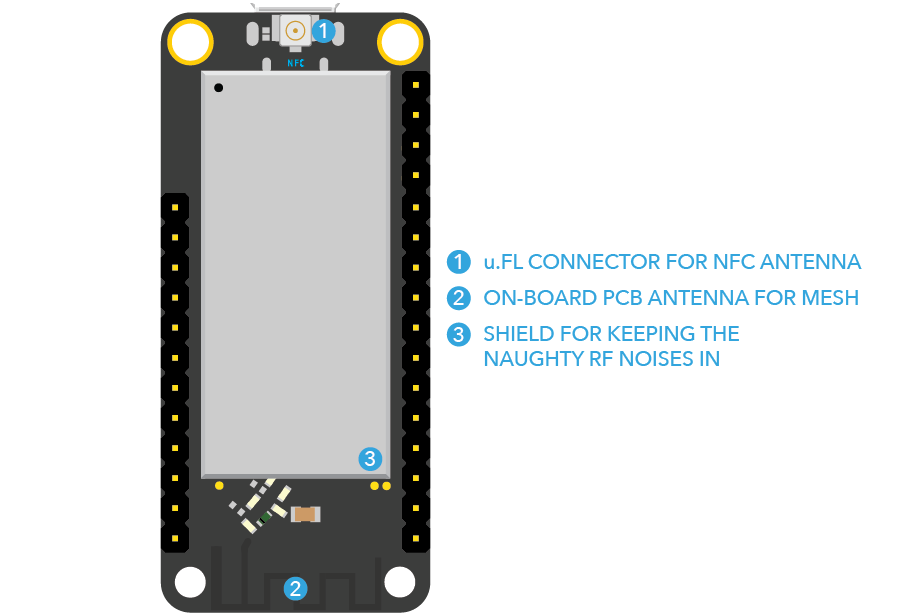
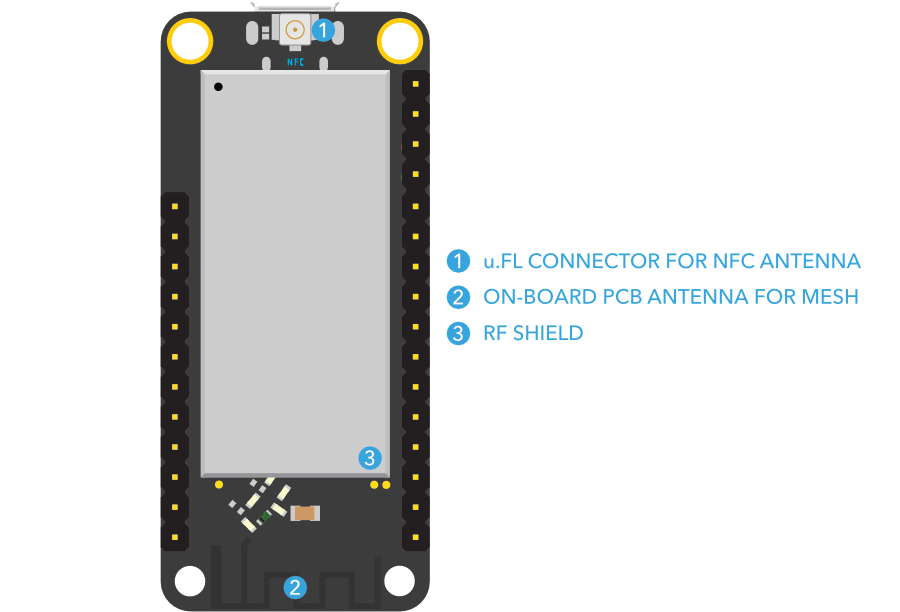
Update mesh bottom legends
- Argon bottom markings legend
- Boron bottom marking legend
- TODO in OTA updates section

diff --git a/src/content/reference/device-os/firmware.md b/src/content/reference/device-os/firmware.md
@@ -12567,7 +12567,7 @@ void loop() {
 
 Application firmware can use these functions to turn on or off OTA updates.
 
-TODO: document system events when an update is received but not yet applied
+{{!-- TODO: document system events when an update is received but not yet applied --}}
 
 ### System.enableUpdates()
 
